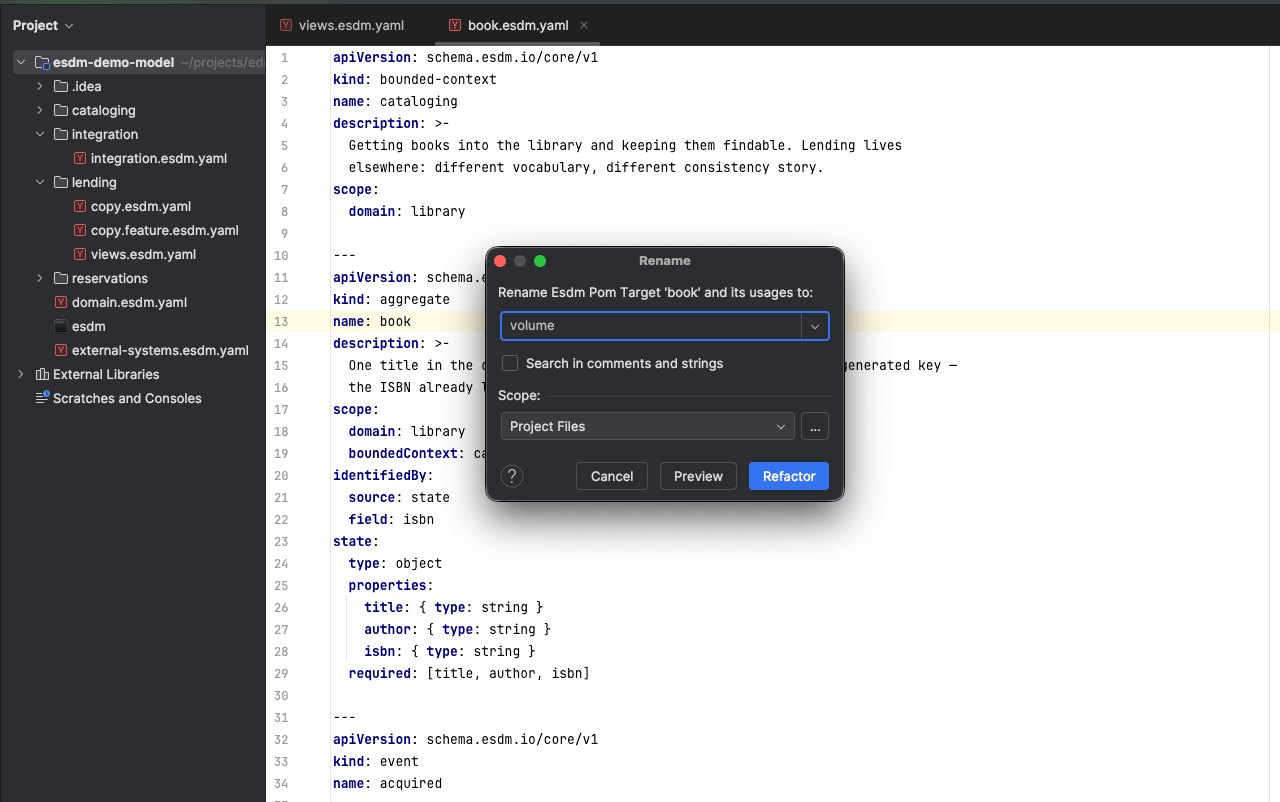
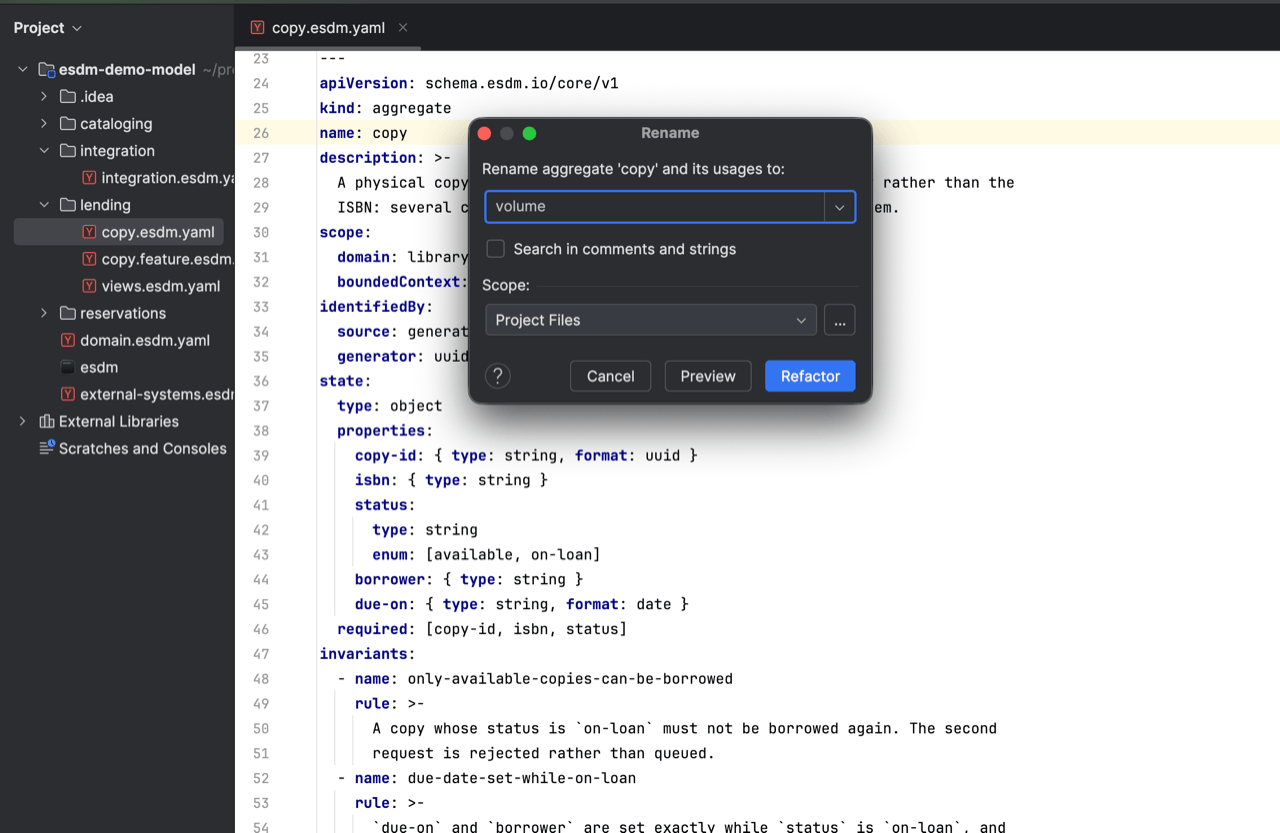
Retake the rename screenshot with the corrected dialog label
It showed "Rename Esdm Pom Target 'book'". Now "Rename aggregate 'copy' and
its usages to:", which confirms the element description provider works in the
real dialog and not only in the tests.

Scaled from the 2268x1476 retina capture to 1280 wide, giving 1280x833 —
above the Marketplace 1280x800 minimum, and consistent in width with the
other four. 593K to 107K through pngquant at the same quality as the rest.

Alt text corrected too: the old one claimed the image listed every reference,
which is the Preview pane, not the dialog shown.

Changed region(s): [[0.0, 0.0, 1.0, 1.0], [0.7188, 0.8728, 0.7812, 0.904], [0.75, 0.2182, 0.7812, 0.2494]]

diff --git a/README.md b/README.md
@@ -35,7 +35,7 @@ Symbol finds any declaration by name.
 contexts — including the cascade when an aggregate's name appears in its commands' and events'
 scope. Prose that merely mentions the name is left alone.
 
-<img src="docs/screenshots/esdm-renaming.png" alt="Renaming a declaration, with every reference listed" width="720">
+<img src="docs/screenshots/esdm-renaming.png" alt="The rename dialog, naming the artifact: Rename aggregate 'copy' and its usages to" width="720">
 
 ## The `esdm` binary
 
